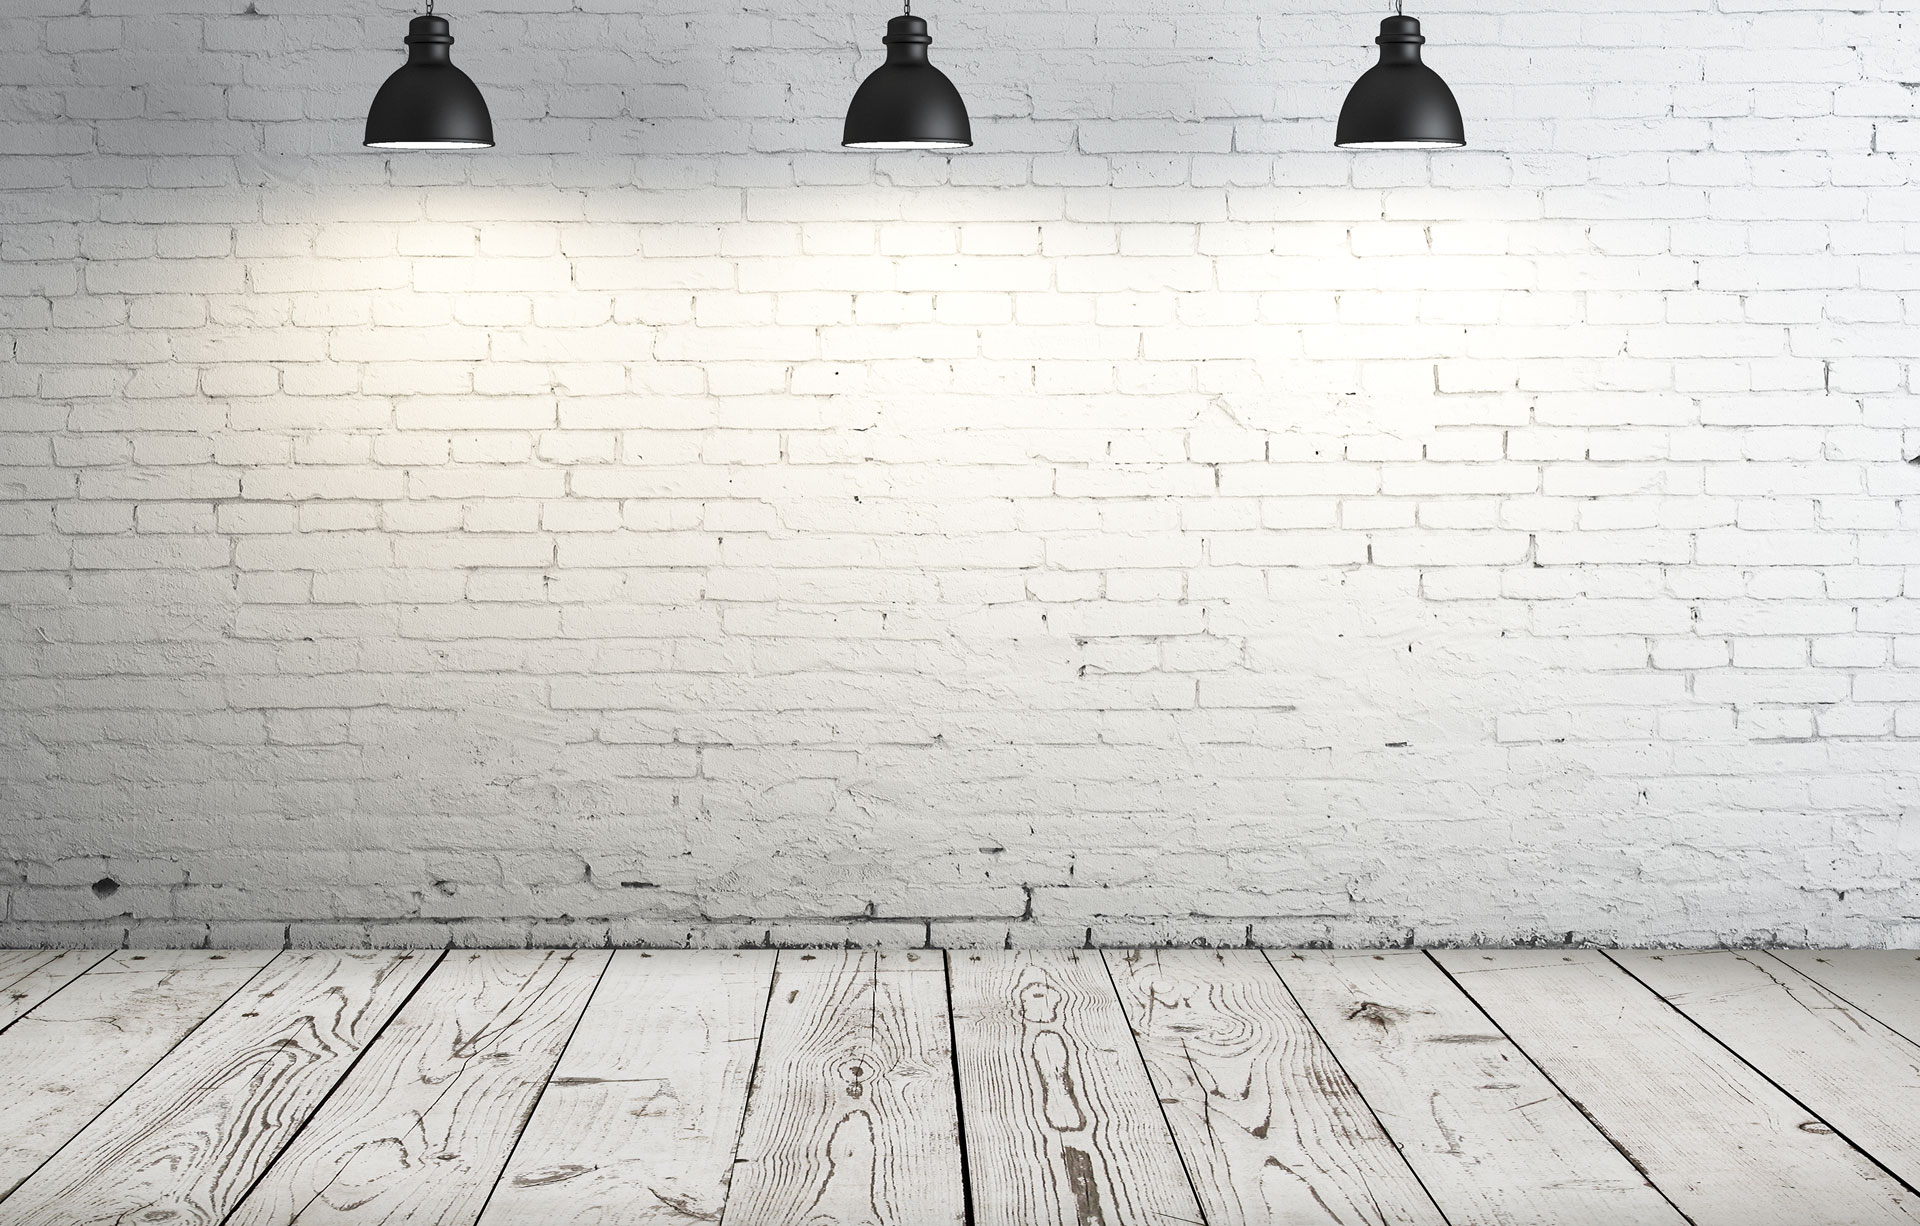
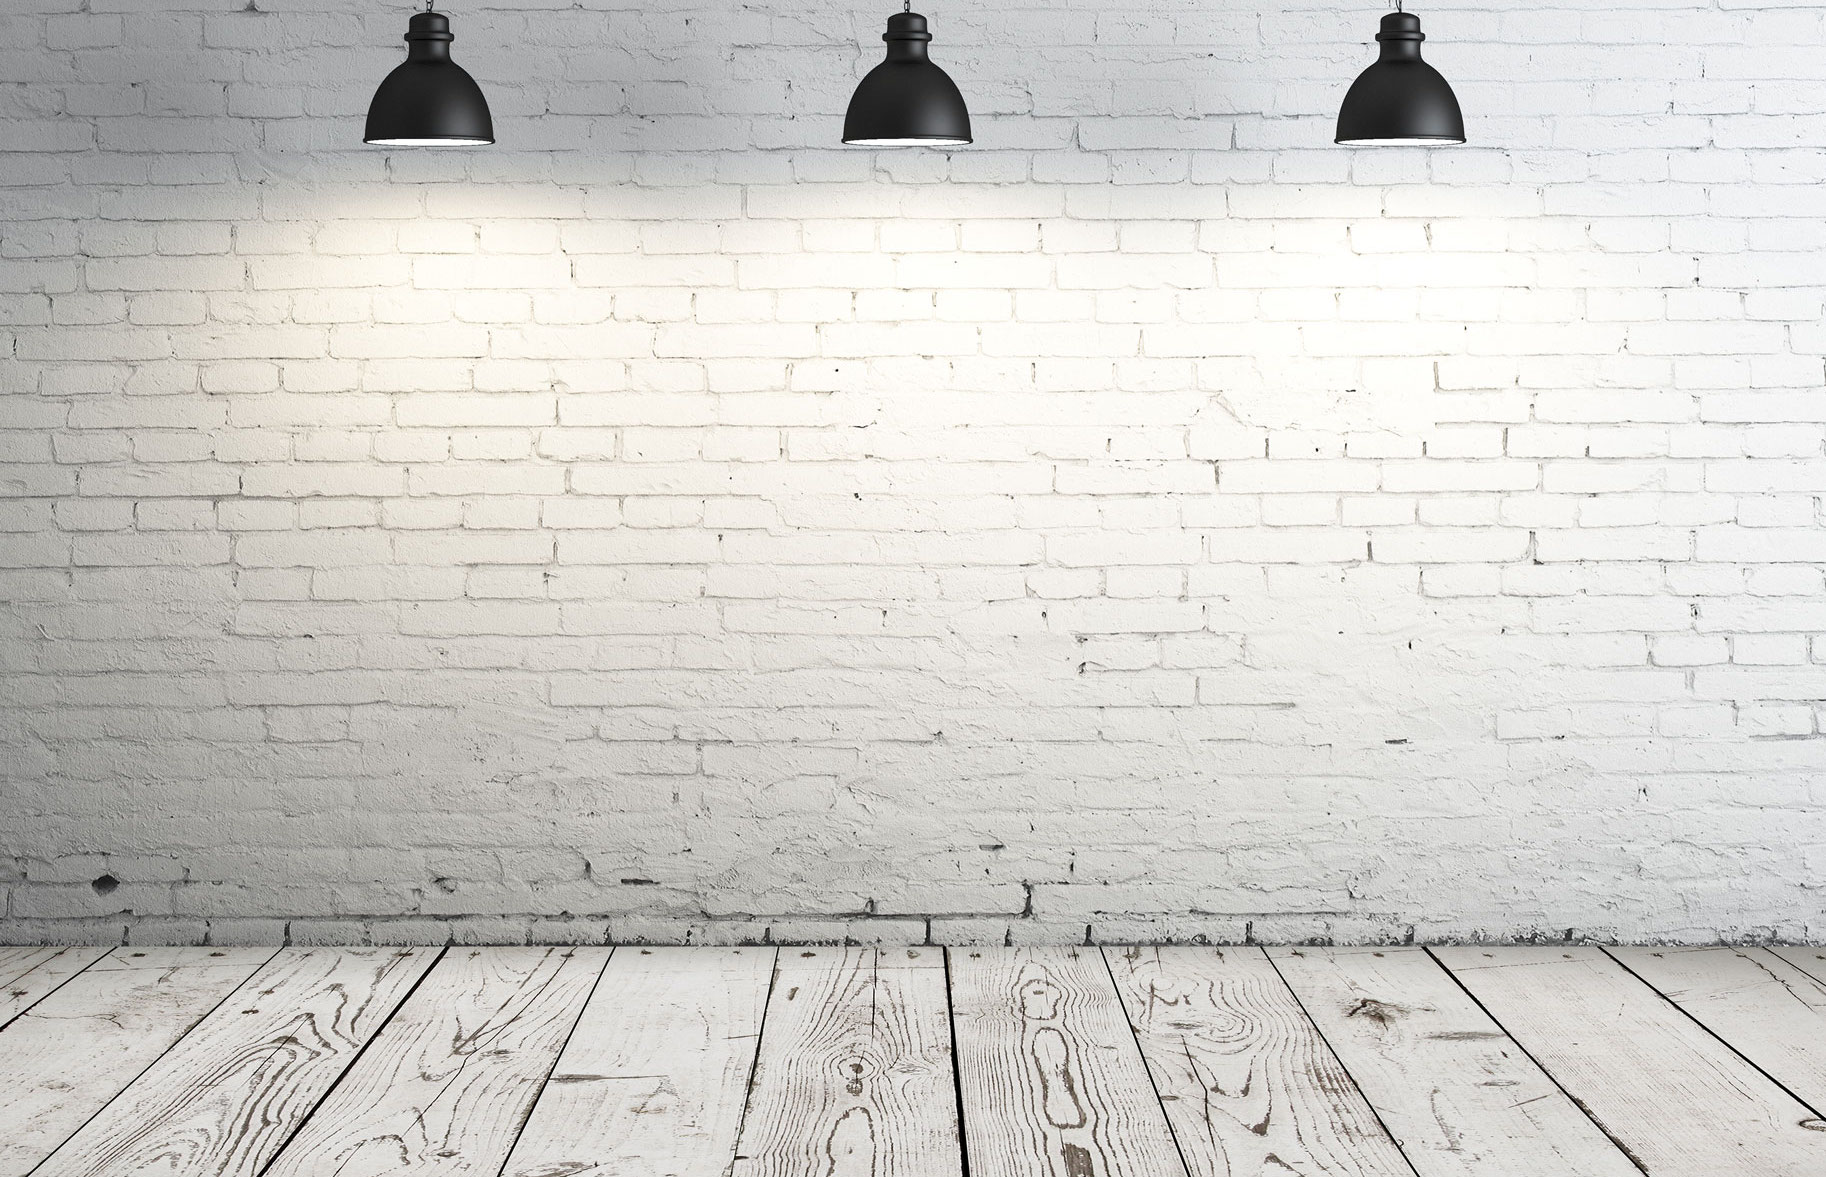
working trivia game

diff --git a/assets/javascript/app.js b/assets/javascript/app.js
@@ -323,9 +323,9 @@ $(document).ready(function () {
         // ===== wronganswer =====
         else if (selection !== answer) {
             wrong++;
-            // If clock runs out, clear the questions to show the rightanswer
+            // If clock runs out, clear the questions to show the right answer
             $(".questions").html("");
-            // show that the user got the the wronganswer and show them the right one.
+            // show that the user got the the wrong answer and show them the right one.
             $(".questions").html(bootstrapDiv + "<h3 style='color: #b70000;'>Oops! That's incorrect!</h3><h3>The correct answer was:</h3>" + "<h3 style='color: #1d8fa5;'>" + answer + "</h3>" + "</div></div>");
             // remove the current question from questions
             questions.splice(selector, 1);
@@ -342,11 +342,11 @@ $(document).ready(function () {
 
             // clock Runs out Scenario
             if (clock === 0) {
-                wrong++; // Player did notanswer question fast enough; increase their wrong score.
+                wrong++; // Player did not answer question fast enough; increase their wrong score.
                 clockrunning = false; // turn the clockr off.
                 $(".questions").html("");
-                // show that the user got the the wronganswer and show them the right one.
-                $(".questions").html(bootstrapDiv + "<h3 style='color: #b70000;'>clock's up!</h3><h3>The right answer was:" + "<h3 style='color: #1d8fa5;'>" + answer + "</h3></div></div>");
+                // show that the user got the the wrong answer and show them the right one.
+                $(".questions").html(bootstrapDiv + "<h3 style='color: #b70000;'>Time's up!</h3><h3>The right answer was:" + "<h3 style='color: #1d8fa5;'>" + answer + "</h3></div></div>");
                 // remove the current question from questions
                 questions.splice(selector, 1);
                 // wait a few seconds before showing the next question.
@@ -357,22 +357,22 @@ $(document).ready(function () {
 
     function triviaEnd() {
         clearInterval(timeLeft);
-        // calculate percentage right
+        // calculate percentage 
         accurate = Math.round((right / (right + wrong)) * 100);
-        // clear questions before re-establishing format.
+        // clear questions before re-establishing format
         $(".questions").html("");
-        // Rebuid the questions with each new question because we clear it to show if the user was right or wrong after each guess.
-        $(".questions").append(bootstrapDiv + "<h2>The trivia has ended!</h2></div></div>");
+        // Rebuid the questions with each new question because we clear it to show if the user was right or wrong after each guess
+        $(".questions").append(bootstrapDiv + "<h2>The trivia has ended</h2></div></div>");
         $(".questions").append(bootstrapDiv + "<h3 style='color: #1d8fa5;'>Let's see how you did.</h3></div></div>");
-        $(".questions").append(bootstrapDiv + "<h4>Right Answer: " + right + "</h4></div></div>");
-        $(".questions").append(bootstrapDiv + "<h4>Wrong Answer: " + wrong + "</h4></div></div>");
+        $(".questions").append(bootstrapDiv + "<h4>Right Answers: " + right + "</h4></div></div>");
+        $(".questions").append(bootstrapDiv + "<h4>Wrong Answers: " + wrong + "</h4></div></div>");
         $(".questions").append(bootstrapDiv + "<h3 style='color: #1a8200;'>" + accurate + "%</h3></div></div>");
-        $(".questions").append(bootstrapDiv + "<button type='button' id='begin' class='btn btn-success'>begin trivia Over</button></div></div>");
+        $(".questions").append(bootstrapDiv + "<button type='button' id='start' class='btn btn-success'>Play Trivia Again!</button></div></div>");
         // Allow user to begin trivia over by clicking the begin button
-        $("#begin").click(function () {
+        $("#start").click(function () {
             triviabegin();
             $(".questions").html(""); // Clear the trivia over screen
-            $("#begin").hide(); // After the button is hit, hide the button 
+            $("#start").hide(); // After the button is hit, hide the button 
             nextquestion();
         })
     }

diff --git a/assets/css/style.css b/assets/css/style.css
@@ -2,38 +2,57 @@
     margin: 0;
     padding: 0;
     box-sizing: border-box;
-    }
-    
-    
-    body {
-        background-image: url("../images/whitewall1.jpg");
-        background-size:cover;
-        font-family: 'Germania One';
-        font-style: normal;
-        font-weight: 400;
-        max-width: 960px;
-        margin: auto;
-    }
+}
 
-    .boxflex {
-        display: flex;
-        justify-content: center;
-        align-items: center;
-        flex-direction: column;
+body {
+    background-image: url("../images/whitewall1.jpg");
+    /* background-size: 100%; */
+    font-family: 'Germania One';
+    font-style: normal;
+    font-weight: 400;
+    max-width: 960px;
+    margin: auto;
+    background-repeat: no-repeat;
+    background-position: center;
+    background-position-y: 0%;
+    /* background-attachment: fixed; */
+}
 
-      }
+.boxflex {
+    display: flex;
+    justify-content: center;
+    align-items: center;
+    flex-direction: column;
+}
 
-      #title {
-          padding-top: 20px;
-          height: 60px;
-          margin-top: 100px;
-          font-size: 40px;
-          margin-bottom: 80px;
-      }
+#title {
+    padding-top: 50px;
+    height: 60px;
+    margin-top: 100px;
+    font-size: 40px;
+    margin-bottom: 80px;
+}
 
-      li {
-        cursor: pointer;
-      }
 .btn-default {
     background-color: brown;
+}
+
+button {
+    width: 200px;
+    border: 5px;
+    margin: 5px;
+}
+
+button:focus {
+    outline: 0 !important;
+}
+
+.questions {
+    width: 100%;
+    text-align: center
+}
+
+#begin {
+  
+    width: 80px;
 }
